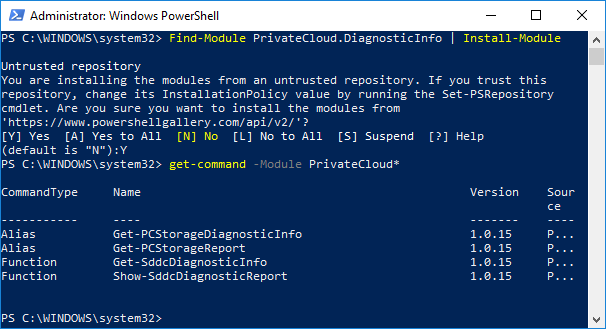
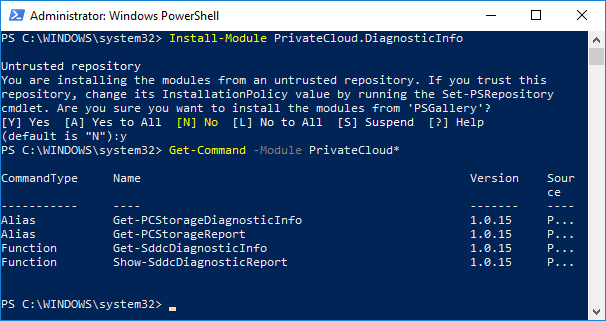
fox
Former-commit-id: 0107a752726060674068e4663d9f7384d98ab064

diff --git a/Scenarios/S2D Tools/Get-SDDCDiagnosticInfo/readme.md b/Scenarios/S2D Tools/Get-SDDCDiagnosticInfo/readme.md
@@ -79,7 +79,7 @@ It is little bit more straightforward with PowerShell Gallery
 
 ````PowerShell
 #download SDDC module to c:\Temp\PrivateCloud.DiagnosticInfo
-Find-Module PrivateCloud.DiagnosticInfo | Save-Module -Path "C:\Temp"
+Save-Module -Name PrivateCloud.DiagnosticInfo -Path "C:\Temp"
 
 #Copy to destination machine (lets-say c:\Temp) and Import
     Copy-Item -Path c:\Temp\PrivateCloud.DiagnosticInfo -Recurse -Destination "C:\Program Files\WindowsPowerShell\Modules" -Force
@@ -98,7 +98,7 @@ Find-Module PrivateCloud.DiagnosticInfo | Save-Module -Path "C:\Temp"
 And this is simplest
 
 ````PowerShell
-Find-Module PrivateCloud.DiagnosticInfo | Install-Module
+Install-Module PrivateCloud.DiagnosticInfo
  
 ````
 
